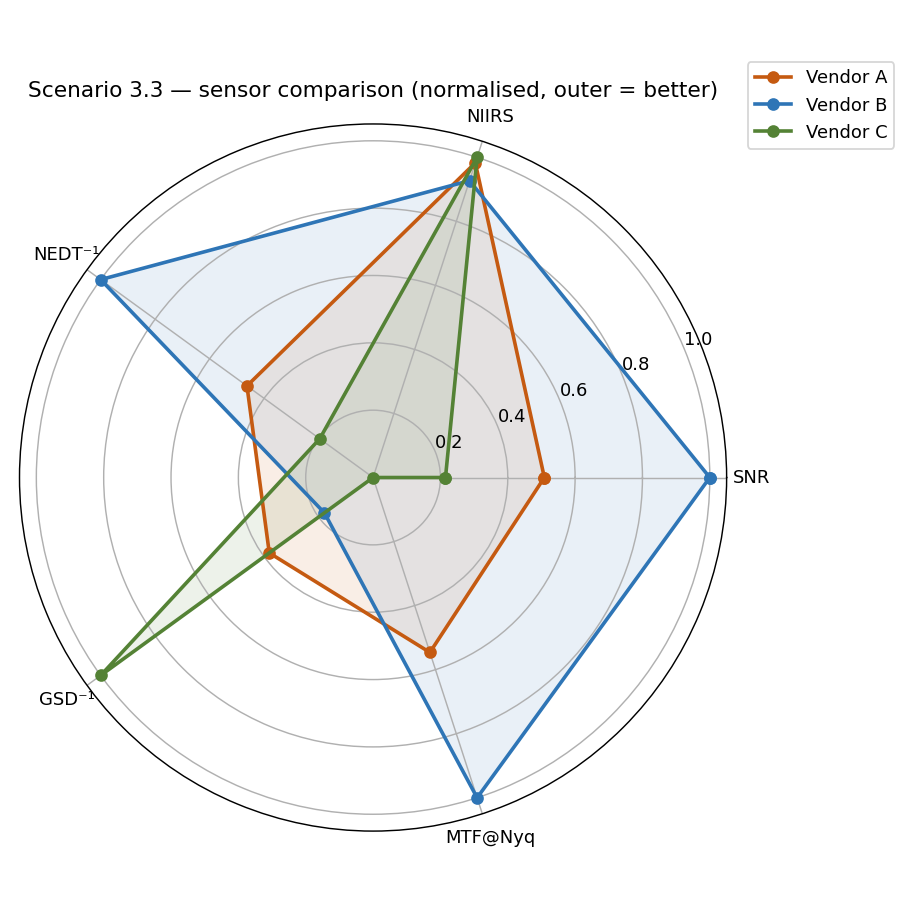
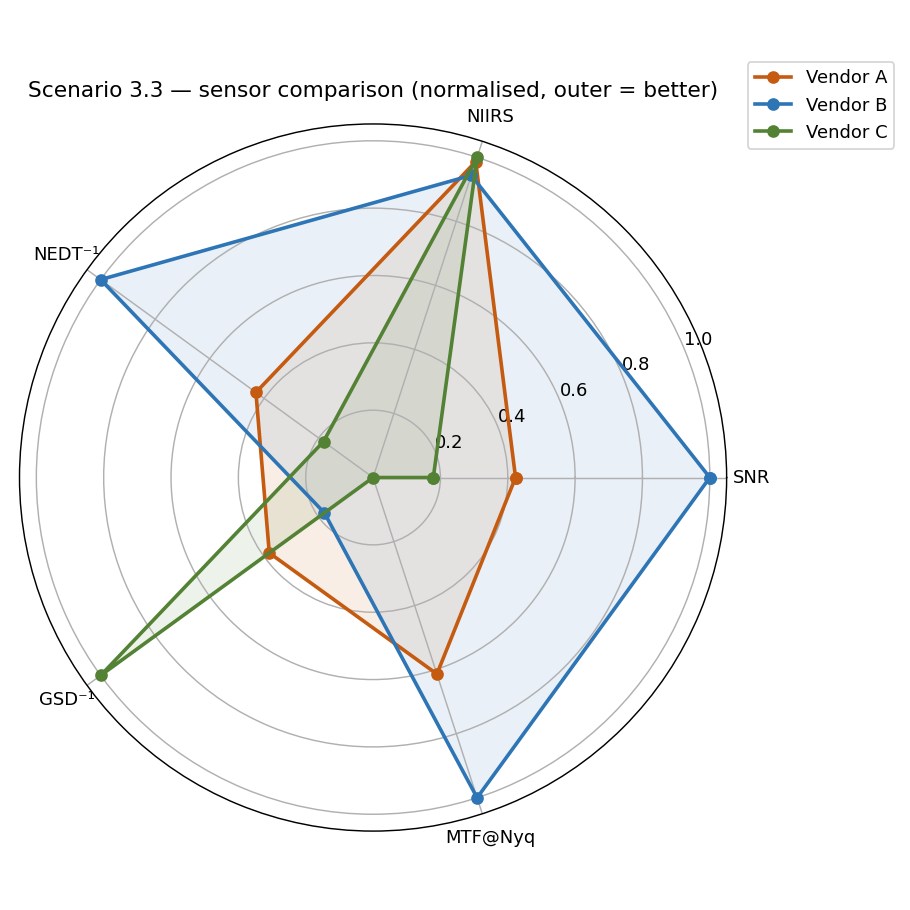
docs(scenarios): CU-176 — refresh 3.3 (multi-sensor) vendor comparison numbers
SNR A/C 1246/527->1035/438 (B stable 2447), NIIRS 4.86/4.58/4.94->4.75/4.54/4.81,
NEDT 21.6/10.0/51.1->26.5/11.4/62.7 mK, MTF 0.25/0.46->0.27/0.43. Pass/fail verdicts
unchanged (GSD still the binding failure). Radar figure regen.

diff --git a/scenarios/03_raj_mission_planner/3.3_multi_sensor_comparison/walkthrough.md b/scenarios/03_raj_mission_planner/3.3_multi_sensor_comparison/walkthrough.md
@@ -29,11 +29,11 @@ the workbook, which is the RADIANT-facing input.
 
 | Metric | Vendor A | Vendor B | Vendor C |
 |--------|----------|----------|----------|
-| SNR | 1246 | **2449** | 527 |
-| NIIRS | 4.86 | 4.58 | **4.94** |
-| NEDT [mK] | 21.6 | **10.0** | 51.1 |
+| SNR | 1035 | **2447** | 438 |
+| NIIRS | 4.75 | 4.54 | **4.81** |
+| NEDT [mK] | 26.5 | **11.4** | 62.7 |
 | GSD [m] | 9.0 | 19.2 | **3.4** |
-| MTF@Nyquist | 0.25 | **0.46** | 0.00 |
+| MTF@Nyquist | 0.27 | **0.43** | 0.00 |
 
 **Compliance matrix (vs requirements):**
 
